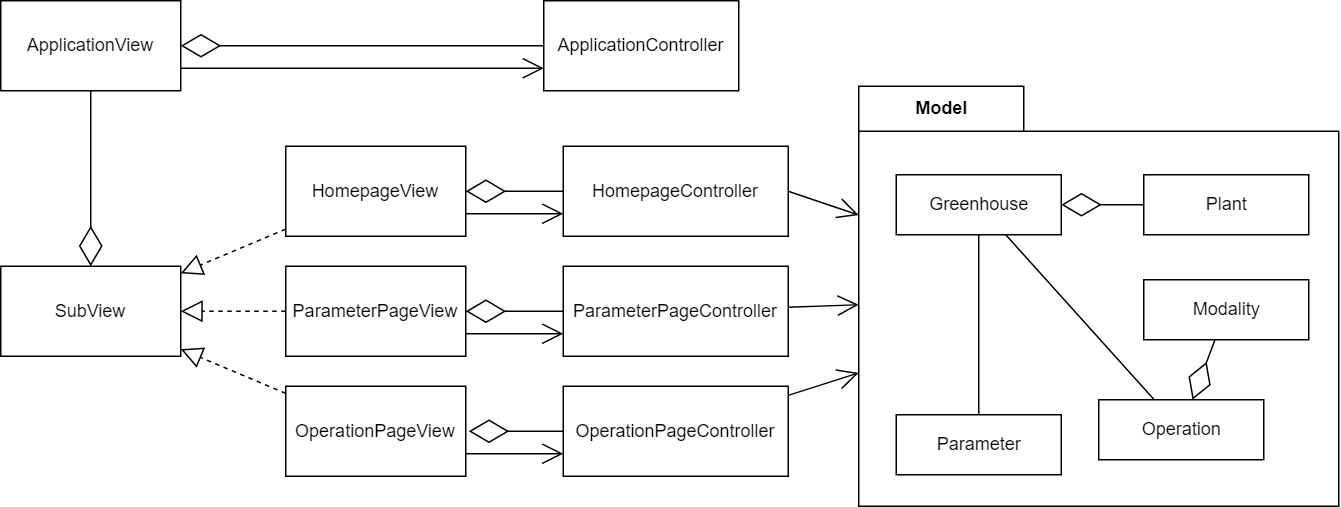
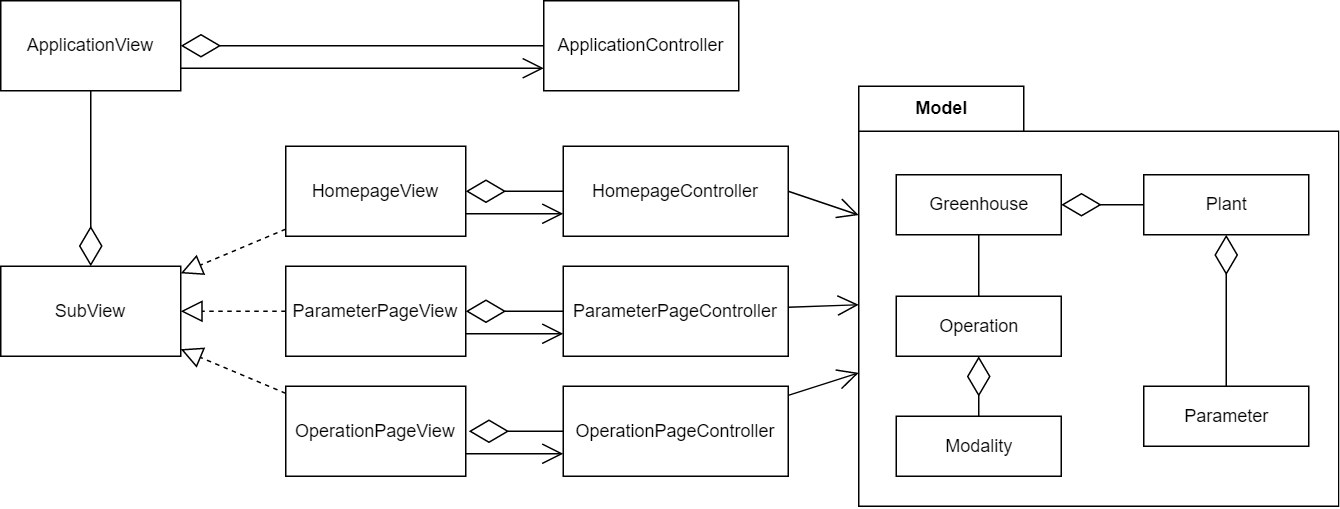
chore: fix typo and correct report

diff --git a/docs/devOps/continuousIntegration.md b/docs/devOps/continuousIntegration.md
@@ -8,17 +8,19 @@ nav_order: 2
 
 La *Continuous Integration* è una pratica importante nello sviluppo del software che consiste nel compilare, testare e distribuire frequentemente il codice sorgente in modo da garantire che le modifiche non introducano errori nel software esistente.
 
-Come detto nei capitoli precedenti, il codice del sistema è organizzato in più repository, per cui è stato realizzato un processo di automazione per ogni repository tramite l'utilizzo delle **GitHub Actions**. Di seguito, verranno descritte le configurazioni di *continuous integration* eseguite per ogni progetto.
+Come detto nei capitoli precedenti, il codice del sistema è organizzato in più repository, per cui è stato realizzato un processo di automazione per ogni repository tramite l'utilizzo delle **GitHub Actions**. 
+
+Di seguito, verranno descritte le configurazioni di *Cotinuous Integration* eseguite per ogni progetto.
 
 ## Sistema di automazione
 
 Il Sistema di automazione è composto da due sotto-progetti: uno per la scheda di **Arduino** e uno per la scheda **NodeMCU Esp8266**. Il *workflow* realizzato si occupa quindi di compilare i due progetti sulla rispettiva scheda. 
 
-Il *workflow* è impostato per eseguirsi ogni volta che viene effettuato una *push* al repository e include tre *jobs* principali: `compile-sketch`, `find-tag` e `deploy`.
+Il *workflow* è impostato per eseguirsi ogni volta che viene effettuato una *push* al repository e include tre *jobs* principali (<a href="#fig1">figura 1</a>): `compile-sketch`, `find-tag` e `deploy`.
 
-Il primo *job*, `compile-sketch`, si occupa di compilare i due *sketch* `ArduinoProject` e `EspProject` nelle rispettive schede. Per fare questo, utilizza l'*action* [arduino/compile-sketches@v1](https://github.com/arduino/compile-sketches#readme) per la compilazione del progetto.
+Il primo *job*, `compile-sketch`, si occupa di compilare i due *sketch* `ArduinoProject` e `EspProject` per le rispettive schede. Nel fare questo , utilizza l'*action* [arduino/compile-sketches@v1](https://github.com/arduino/compile-sketches#readme) per la compilazione del progetto.
 
-Il secondo *job*, `find-tag`, verrà eseguito solo se il primo *job* è stato eseguito con successo e se la modifica è stata effettuata sul branch *master*. Questo *job* si occupa di verificare se nel messaggio di commit è presente uno speciale segnalatore `-TAG`. Nel caso sia presente vuol dire che è stato specificato un tag manualmente, ciò può avvenire qualora si voglia far avanzare la versione *Major* o *Minor* avendo fatto cambiamenti significativi. Qualora non venisse specificato un tag, viene generato in automatico un nuovo tag incrementando l'ultimo numero (*bugfix*) del tag esistente.
+Il secondo *job*, `find-tag`, verrà eseguito solo se il primo *job* ha dato esito positivo e se la modifica è stata effettuata sul branch *master*. Questo *job* si occupa di verificare se nel messaggio di commit è presente uno speciale segnalatore `-TAG`. Nel caso sia presente, vuol dire che è stato specificato un tag manualmente, ciò può avvenire qualora si voglia far avanzare la versione *Major* o *Minor* del software avendo fatto cambiamenti significativi. Qualora non venisse specificato un tag, viene generato in automatico un nuovo tag incrementando l'ultimo numero (*bugfix*) del tag esistente.
 
 Il terzo *job*, `deploy`, verrà attivato solamente se è stato generato correttamente il tag nel *job* precedente. Questo *job* crea una nuova *release* sul repository di GitHub e la pubblica utilizzando l'*action* [actions/create-release@v1](https://github.com/actions/create-release).
 
@@ -29,13 +31,13 @@ Il terzo *job*, `deploy`, verrà attivato solamente se è stato generato corrett
 
 ## Server
 
-Il *workflow* realizzato per il Server è composto da tre *job* principali: `build`, `release` e `success`.
+Il *workflow* realizzato per il Server è composto da tre *job* principali (<a href="#fig2">figura 2</a>): `build`, `release` e `success`.
 
 Il primo *job*, `build`, è responsabile di compilare e testare il codice su tre sistemi operativi diversi: *Ubuntu*, *macOS* e *Windows*. Durante questa fase viene configurato il database MongoDB utilizzando l'*action* [ankane/setup-mongodb@v1](https://github.com/ankane/setup-mongodb) e caricato il database iniziale per poter effettuare i test. Il codice viene compilato e testato con Gradle e, se tutti i test hanno esito positivo, la fase di `build` viene considerata completata con successo. 
 
 Il secondo *job*, `release`, è responsabile della distribuzione del codice compilato e testato. Durante questa fase, il codice viene scaricato, viene configurato Node.js e viene eseguito un comando di rilascio utilizzando la libreria `semantic-release`, che verrà spiegato più in dettaglio nella sezione successiva sul [Version control](/Report/docs/devOps/versionControl.html).
 
-Il terzo *job*, `success`, viene eseguita solo se le fasi di `build` ha avuto esito positivo. Durante questa fase, viene eseguito un passaggio che verifica che non vi siano stati errori durante le fasi precedenti. Se tutti i passaggi hanno esito positivo, il *workflow* viene considerato completato con successo.
+Il terzo *job*, `success`, viene eseguita solo se le fasi di `build` hanno avuto esito positivo. Durante questa fase, viene eseguito un passaggio che verifica che non vi siano stati errori durante le fasi precedenti. Se tutti i passaggi hanno esito positivo, il *workflow* viene considerato completato con successo.
 
 <div align="center">
 <img src="img/pipeline_server.png" alt="pipeline server" id="fig2">
@@ -44,13 +46,13 @@ Il terzo *job*, `success`, viene eseguita solo se le fasi di `build` ha avuto es
 
 ## Client Desktop
 
-Il *workflow* realizzato per il Client Desktop risulta molto simile a quella del Server, l'unica cosa che cambia è che non ha bisogno di impostare il database MongoDB.
+Il *workflow* realizzato per il Client Desktop risulta molto simile a quella del Server, l'unica cosa che cambia è che non vi è la necessità di impostare il database MongoDB.
 
-Anche in questo caso il *workflow* è eseguito ogni volta che viene effettuato una *push*.
+Anche in questo caso il *workflow* è eseguito ogni volta che viene effettuata una *push*.
 
-Il workflow è diviso in tre *jobs* principali: `build`, `release` e `success`. Il *job* `build` consiste nel compilare il codice ed eseguire i test sui tre sistemi operativi: *Linux*, *macOS* e *Windows*.
+Il workflow è diviso in tre *jobs* principali (<a href="#fig3">figura 3</a>): `build`, `release` e `success`. Il *job* `build` si occupa di compilare il codice ed eseguire i test sui tre sistemi operativi: *Linux*, *macOS* e *Windows*.
 
-Successivamente c'è la fase di `release` per effettuare il rilascio del codice in automatico.
+Successivamente vi è la fase di `release` per effettuare il rilascio del codice in automatico.
 
 Infine, la fase `success` verifica se ci sono stati errori durante l'esecuzione dei *jobs* precedenti.
 
@@ -64,15 +66,15 @@ Infine, la fase `success` verifica se ci sono stati errori durante l'esecuzione 
 
 Il Client Mobile, come spiegato precedentemente, è un'applicazione sviluppata in Android, per cui nel suo *workflow* avrà bisogno di impostare l'emulatore **Android**.
 
-Il *workflow* consiste in quattro *jobs* principali: `build`, `instrumentation-test`, `release` e `success`.
+Il *workflow* consiste in quattro *jobs* principali (<a href="#fig4">figura 4</a>): `build`, `instrumentation-test`, `release` e `success`.
 
-Il primo *job*, `build`, esegue il processo di compilazione dell'applicazione mobile per verificare che il codice sia corretto. Viene eseguito su tre sistemi operativi diversi (*Ubuntu*, *macOS*, *Windows*) utilizzando *JDK 11*. Una volta verificato la `build`, vengono eseguite gli *unit-test* implementati con JUnit. 
+Il primo *job*, `build`, esegue il processo di compilazione dell'applicazione mobile per verificare che il codice sia corretto. Viene eseguito su tre sistemi operativi diversi (*Ubuntu*, *macOS*, *Windows*) utilizzando *JDK 11*. Una volta verificata la `build`, vengono eseguite gli *unit-test* implementati con JUnit. 
 
-Il secondo *job*, `instrumentation-test`, si occupa di eseguire i test dell'applicazione su un emulatore Android utilizzando l'*action* [reactivecircus/android-emulator-runner@v2](https://github.com/ReactiveCircus/android-emulator-runner). È stata creata una matrice per testare l'applicazione con tre diverse API-level di Android: (26, 27, 28, 29).
+Il secondo *job*, `instrumentation-test`, si occupa di eseguire i test dell'applicazione su un emulatore Android utilizzando l'*action* [reactivecircus/android-emulator-runner@v2](https://github.com/ReactiveCircus/android-emulator-runner). È stata creata una matrice per testare l'applicazione con tre diverse API-level di Android: (26, 27, 28 e 29).
 
 Il terzo *job*, `release`, esegue il processo di rilascio dell'applicazione mobile su GitHub utilizzando la libreria `semantic-release`.
 
-Il quarto *job*, `success`, verifica che non ci siano stati errori durante le fasi precedenti (`build`, `instrumentation-test`).
+Il quarto *job*, `success`, verifica che non ci siano stati errori durante le fasi precedenti (`build` ed `instrumentation-test`).
 
 <div align="center">
 <img src="img/pipeline_mobile.png" alt="pipeline mobile" id="fig4">

diff --git a/docs/implementationDetails/testing.md b/docs/implementationDetails/testing.md
@@ -11,17 +11,17 @@ Per verificare il corretto comportamento del sistema e l’efficacia del prodott
 
 ## Testing del sistema di automazione
 
-Per verificare il funzionamento del sistema di automazione sono stati eseguiti test manuali sull'hardware `Arduino` ed `NodeMCU ESP8266`. Inizialmente, sono stati effettuati test sui singoli sensori e attuatori del sistema per verificarne il comportamento e successivamente, i diversi programmi realizzati, sono stati integrati e testati per verificare il corretto funzionamento del sistema complessivo.
+Per verificare il funzionamento del sistema di automazione sono stati eseguiti test manuali sull'hardware Arduino e NodeMCU ESP8266. Inizialmente, sono stati effettuati test sui singoli sensori e attuatori del sistema per verificarne il comportamento e successivamente, i diversi programmi realizzati, sono stati integrati e testati per verificare il corretto funzionamento del sistema complessivo.
 
-Per verificare che l’ESP inviasse e ricevesse correttamente i messaggi e attivasse gli attuatori appropriati tramite Arduino, è stato utilizzato il servizio “*broker.mqtt-dashboard.com*”, che permette di testare il sistema senza dover configurare un broker `MQTT` locale. Il servizio include una dashboard per la gestione dei messaggi `MQTT` e mette a disposizione funzionalità per la pubblicazione e sottoscrizione dei messaggi, oltre a strumenti per visualizzare i messaggi inviati e ricevuti.
+Per verificare che l’ESP inviasse e ricevesse correttamente i messaggi e attivasse gli attuatori appropriati tramite Arduino, è stato utilizzato il servizio “*broker.mqtt-dashboard.com*”, che permette di testare il sistema senza dover configurare un broker MQTT locale. Il servizio include una dashboard per la gestione dei messaggi MQTT e mette a disposizione funzionalità per la pubblicazione e sottoscrizione dei messaggi, oltre a strumenti per visualizzare i messaggi inviati e ricevuti.
 
 ## Testing del Server
 
-Nel progetto del Server sono stati effettuati test automatici con `JUnit` per garantire la qualità del codice e verificare che tutte le funzionalità siano correttamente implementate. 
+Nel progetto del Server sono stati effettuati test automatici con **JUnit** per garantire la qualità del codice e verificare che tutte le funzionalità siano correttamente implementate. 
 
-Si è cercate di testare la maggior parte dei componenti in tutti i microservizi, ottenendo una coverage complessiva del 73% con un totale di 77 test come raffigurato nella <a href="#fig1">figura 1</a>.
+Inoltre, è stata utilizzata la libreria **Vert.x**, la quale include un contesto di testing per le esecuzioni asincrone. In tal modo, è possibile avviare i singoli servizi in modo asincrono e tramite l’effettuazione di richieste HTTP automatiche, è possibile verificare le risposte restituite dal servizio in modo semplice e agevole. 
 
-Inoltre, è stata utilizzata la libreria `Vert.x`, la quale include un contesto di testing per le esecuzioni asincrone. In tal modo, è possibile avviare i singoli servizi in modo asincrono e tramite l’effettuazione di richieste `HTTP` automatiche, è possibile verificare le risposte restituite dal servizio in modo semplice e agevole. 
+Si è cercato di testare la maggior parte dei componenti in tutti i microservizi, ottenendo una coverage complessiva del 73% con un totale di 77 test effettuati, come raffigurato nella <a href="#fig1">figura 1</a>.
 
 Oltre ai test automatici, sono stati eseguiti anche test manuali per verificare il corretto funzionamento del sistema nel suo insieme, includendo la comunicazione con il sistema di automazione e con i clients.
 
@@ -32,11 +32,11 @@ Oltre ai test automatici, sono stati eseguiti anche test manuali per verificare 
 
 ## Testing del Client Desktop
 
-Anche per il Client Desktop sono state realizzate dei test automatici per verificare il corretto funzionamento dell'applicazione. In particolare, per la parte di *model* e *presentazione* dei dati è stato utilizzato JUnit, mentre per la parte di *view* è stato utilizzato la libreria **TestFX** che permette di testare le interfacce.
+Anche per il Client Desktop sono state realizzate dei test automatici per verificare il corretto funzionamento dell'applicazione. In particolare, per la parte di *model* e *presentazione* dei dati è stato utilizzato **JUnit**, mentre per la parte di *view* è stata utilizzata la libreria **TestFX** che permette di testare le interfacce.
 
-Tuttavia, siccome il sistema è distribuito, non è stato possibile testare tutte le funzionalità dell'applicazione in quanto richiede che il Server sia attivo e in esecuzione. La coverage finale ottenuta è del 40% su un totale di 21 test come è possibile vedere nella <a href="#fig2">figura 2</a>.
+Tuttavia, siccome il sistema è distribuito, non è stato possibile testare tutte le funzionalità dell'applicazione in quanto richiede che il Server sia attivo e in esecuzione. La coverage finale ottenuta è del 40% su un totale di 21 test effettuati, come è possibile vedere nella <a href="#fig2">figura 2</a>.
 
-Infine sono stati effettuati dei test manuali sulle piattaforme Linux e Windows. Inizialmente, sono stati eseguiti dei test sulle singole pagine per verificarne il corretto comportamento, ossia verificare che le richieste effettuate al Server andassero a buon fine, ottenendo tutte le informazioni necessarie da mostrare all’utente e verificando che l’aggiornamento in *real-time*, relativo all’esecuzione di nuove operazioni o nuovi dati rilevati, funzionasse correttamente.
+Infine, sono stati effettuati dei test manuali sulle piattaforme Linux e Windows. Inizialmente, sono stati eseguiti dei test sulle singole pagine per verificarne il corretto comportamento, ossia verificare che le richieste effettuate al Server andassero a buon fine, ottenendo tutte le informazioni necessarie da mostrare all’utente e verificando che l’aggiornamento in *real-time*, relativo all’esecuzione di nuove operazioni o nuovi dati rilevati, funzionasse correttamente.
 
 Successivamente, si è proceduto ad integrare le diverse schermate verificando che il comportamento complessivo dell’applicazione rimanesse invariato.
 
@@ -53,7 +53,7 @@ I test sono stati realizzati sia con Client e Server presenti sullo stesso host,
 
 Anche per il Client Mobile sono stati effettuati sia dei test automatici sia test manuali per verificare il corretto funzionamento dell'applicazione. 
 
-Come nel Client Desktop, sono stati implementati dei *unit test* utilizzando JUnit per verificare le entità del *model* e gli aspetti di presentazione dei dati. Per quanto riguarda la *view*, invece, è stato utilizzato il *framework* di test **Espresso** che permette di eseguire i test direttamente sul dispositivo Android, fisico o emulato. L'applicazione viene compilata e installata nel dispositivo e viene lanciato il test, simulando le interazioni dell'utente e verificando il comportamento dell'applicazione. La coverage finale ottenuta è del 58% su un totale di 24 test come è possibile vedere nella <a href="#fig3">figura 3</a>.
+Come nel Client Desktop, sono stati implementati degli *unit test* utilizzando **JUnit** per verificare le entità del *model* e gli aspetti di presentazione dei dati. Per quanto riguarda la *view*, invece, è stato utilizzato il *framework* di test **Espresso** che permette di eseguire i test direttamente sul dispositivo Android, fisico o emulato. L'applicazione viene compilata e installata nel dispositivo e viene lanciato il test, simulando le interazioni dell'utente e verificando il comportamento dell'applicazione. La coverage finale ottenuta è del 58% su un totale di 24 test effettuati, come è possibile vedere nella <a href="#fig3">figura 3</a>.
 
 Infine, sono stati effettuati dei test manuali, sia tramite i dispositivi Android a disposizione dei componenti del gruppo sia attraverso l’emulatore messo a disposizione da Android Studio. Come indicato per il Client Desktop, anche in questo caso i test eseguiti sono stati effettuati sia con il componente Client che con il componente Server attivi, che mediante l’utilizzo di container Docker, per l’hosting del Server, al fine di simulare un ambiente distribuito.
 

diff --git a/docs/devOps/buildAutomation.md b/docs/devOps/buildAutomation.md
@@ -6,38 +6,38 @@ nav_order: 1
 ---
 # Build automation
 
-Una volta definiti i bounded context e l'architettura del progetto, si è proseguito andando a definire la struttura di progetto. È stata predisposta un'organizzazione di base ed è stata chiamata **SmartGreenhouse-22-23**. All'interno di questa sono stati predisposti quattro repository principali:
+Una volta definiti i bounded context e l'architettura del progetto, si è proseguito andando a definirene la struttura e l'organizzazione. È stata predisposta un'organizzazione di base su GitHub ed è stata chiamata **SmartGreenhouse-22-23**. All'interno di questa sono stati predisposti quattro repository principali:
 - **ArduinoSensor**, che si occupa del sotto-progetto relativo all'implementazione del sotto-dominio sistema di automazione;
 - **Server**, che si occupa della parte backend del sistema, rappresentando quindi il sotto-dominio greenhouse core;
 - **ClientDesktop**, che si occupa di implementare il client desktop, facente parte del sotto-dominio client;
 - **ClientMobile**, che si occupa di implementare il client mobile, facente parte anch'esso del sotto-dominio client.
 
-Tutti i repository, ad eccezione di **ArduinoSensor** sono stati strutturati utilizzando il build tool **Gradle**, il quale è stato pensato per funzionare principalmente su linguaggi Java like, tuttavia anche altri linguaggi sono supportati.
+Tutti i repository, ad eccezione di **ArduinoSensor**, sono stati strutturati utilizzando il build tool **Gradle**, il quale è stato pensato per funzionare principalmente su linguaggi _Java like_.
 
-Grazie a Gradle è stato possibile gestire in modo semplice ed efficace la build automation e quindi le dipendenze ed i plugin, di ogni progetto, ed eventualmente sotto-progetto, anche grazie all'utilizzo del file di configurazione ``libs.versions.toml``.
+Grazie a Gradle è stato possibile gestire in modo semplice ed efficace la _build automation_ e quindi le dipendenze ed i _plugin_, di ogni progetto, ed eventualmente sotto-progetto, anche grazie all'utilizzo del file di configurazione ``libs.versions.toml``.
 
 
 ## Struttura multi-progetto
 
-Come detto nella sezione relativa all'design, si è pensato di realizzare il sistema di backend adottando un'architettura a micro-servizi. Per riuscire a realizzare questo tipo di architettura è stato scelto di adottare la struttura multi-progetto messa a disposizione da gradle, il più possibile aderente all’analisi DDD effettuata. Pertanto all'interno del più grande progetto, e repository **Server**, sono stati definiti i seguenti sotto-progetti:
+Come detto nella sezione relativa all'design, si è pensato di realizzare il sistema di backend adottando un'architettura a micro-servizi. Per riuscire a realizzare questo tipo di architettura si è scelto di adottare la struttura multi-progetto messa a disposizione da gradle, che fosse il più possibile aderente all’analisi DDD effettuata. Pertanto all'interno del _root project_, e repository **Server**, sono stati definiti i seguenti sotto-progetti:
 
 - **brightnessService**, il quale rappresenta il micro-servizio relativo alla storicizzazione e il reperimento dei dati del sensore di luminosità; 
 - **clientCommunicationGateway**, il cui compito è quello di rappresentare il micro-servizio incaricato di gestire la comunicazione con i client;
-- **common**, rappresenta una libreria incaricata di gestire le attività legate ai parametri di una pianta;
+- **common**, rappresenta una modulo che racchiude gli elementi comuni relativi ai parametri di una pianta;
 - **greenhouseCommunicationGateway**, il cui compito è quello di rappresentare il micro-servizio incaricato di gestire la comunicazione con il sistema di automazione;
-- **greenhouseService**, il quale rappresenta il micro-servizio incaricato della storicizzazione e il reperimento delle informazioni relative alla serra, tra cui pianta coltivata al suo interno, i range ottimali per i suoi parametri vitali e la modalità attuale di gestione: manuale o automatica. Questo servizio si occupa di analizzare i diversi dati rilevati dai sensori, in modo da individuare eventuali situazioni di allarme e in tal caso stabilire l'operazione correttiva da intraprendere; 
+- **greenhouseService**, il quale rappresenta il micro-servizio incaricato della storicizzazione e il reperimento delle informazioni relative alla serra, tra cui la pianta coltivata al suo interno, i range ottimali per i suoi parametri vitali e la modalità attuale di gestione: manuale o automatica. Questo servizio si occupa, inoltre, di analizzare i diversi dati rilevati dai sensori, in modo da individuare eventuali situazioni di allarme e in tal caso stabilire l'operazione correttiva da intraprendere; 
 - **humidityService**, il quale rappresenta il micro-servizio relativo alla storicizzazione e il reperimento dei dati del sensore dell'umidità ambientale; 
-- **operationService**, , il quale rappresenta il micro-servizio relativo all'esecuzione, storicizzazione e il reperimento dei dati riguardanti le operazioni eseguite all'interno della serra; 
+- **operationService**, il quale rappresenta il micro-servizio relativo all'esecuzione, storicizzazione e il reperimento dei dati riguardanti le operazioni eseguite all'interno della serra; 
 - **soilMoistureService**, il quale rappresenta il micro-servizio relativo alla storicizzazione e il reperimento dei dati del sensore dell'umidità del suolo; 
 - **temperatureService**, il quale rappresenta il micro-servizio relativo alla storicizzazione e il reperimento dei dati del sensore della temperatura ambientale; 
 
 ## Task personalizzati
-Per ogni progetto e sottoprogetto sono stati creati dei task personalizzati, inseriti  all’interno dei relativi file ``build.gradle.kts``. Per eseguire i task basterà eseguire il seguente comando ``./gradlew nomeTask``, sostituendo **nomeTask** con appunto il nome del task presente nel progetto.
+Per ogni progetto e sottoprogetto sono stati creati dei task personalizzati, inseriti all’interno dei relativi file ``build.gradle.kts``. Per eseguire i task basterà eseguire il seguente comando ``./gradlew nomeTask``, sostituendo **nomeTask** con il nome del task presente nel progetto.
 
 In particolare per ogni progetto sono stati creati:
 
-- un task di ``test`` denominato appunto test. In questo modo a partire dalla root del progetto sarà possibile lanciare i test di ogni progetto. Aggiungendo al comando il parametro ``--parallel`` tutti i task di test dei sottoprogetti verranno lanciati in parallelo, permettendo di effettuare un test dell’intero progetto molto più velocemente.
+- un task ``test`` che a partire dalla root del progetto consentirà di lanciare i test di ogni sottoprogetto. Inoltre, aggiungendo al comando il parametro ``--parallel`` tutti i task di test dei sottoprogetti verranno lanciati in parallelo, permettendo di effettuare un test dell’intero progetto molto più velocemente.
 
-- un task per la creazione del jar, denominato ``shadowJar`` il quale permette di generare il jar per il progetto ed ogni sotto-progetto.
+- un task ``shadowJar``, il quale permette di generare il jar per il progetto ed ogni sotto-progetto.
 
-- un task per la creazione del report relativo alla coverage, denominato ``JacocoAggregatedReport`` il quale permette di generare il report della coverage per il progetto, contenente quindi anche il report di ogni sotto-progetto in esso presente.
+- un task ``Jacoco``, il quale permette di generare il report della coverage per il sottoprogetto e al fine di aggregare i diversi report, il task `JacocoAggregatedReport`.

diff --git a/docs/implementationDetails/backend.md b/docs/implementationDetails/backend.md
@@ -73,9 +73,9 @@ Nel caso del servizio `GreenhouseCommunication`, infatti, le operazioni da esegu
 
 Al fine di rendere il deployment del sistema di backend più semplice, si è deciso di utilizzare **[Docker](https://www.docker.com/)** per poter caricare ed eseguire i diversi micro-servizi. 
 
-In particolare, si è deciso di inserire ogni micro-servizio all'interno di un apposito container Docker. Un container è una __lightweight Virtual Machine__, che è in grado di contenere un'applicazione e il suo ambiente di esecuzione, vengono considerati __lightweight__, in quanto contengono solo lo stretto necessario per poter eseguire l'applicazione e utilizzano le risorse dell'host sul quale vengono istanziati, consentendoci di avere un ambiente di esecuzione isolato per ogni servizio. 
+In particolare, si è deciso di inserire ogni micro-servizio all'interno di un apposito container Docker. Un container è una _lightweight Virtual Machine_, che è in grado di contenere un'applicazione e il suo ambiente di esecuzione, vengono considerati _lightweight_, in quanto contengono solo lo stretto necessario per poter eseguire l'applicazione e utilizzano le risorse dell'host sul quale vengono istanziati, consentendoci di avere un ambiente di esecuzione isolato per ogni servizio. 
 
-Nel nostro caso il container di ogni micro-servizio, come si può vedere nel <a href="#lst3">listato 3</a>, contiene al suo interno il JDK 11, necessario per l'esecuzione del jar e il .jar contenente il codice, compreso di dipendenze, del servizio che rappresenta. Nell'esempio, il servizio è quello relativo alla gestione del parametro della luminosità, per cui una volta nominato l'immagine ``brightness_service``, in modo da poterla poi identificare, viene caricato al suo interno il .jar del servizio e non appena questo accade viene lanciata la sua esecuzione. 
+Nel nostro caso il container di ogni micro-servizio, come si può vedere nel <a href="#lst3">listato 3</a>, contiene al suo interno il JDK 11, necessario per l'esecuzione del jar e il .jar contenente il codice, compreso di dipendenze, del servizio che rappresenta. Nell'esempio, il servizio è quello relativo alla gestione del parametro della luminosità, per cui una volta nominato l'immagine ``brightness_service``, in modo da poterla poi identificare, viene caricato al suo interno il .jar del servizio e, non appena questo accade, viene lanciata la sua esecuzione. 
 
 Eventualmente, se necessario per il corretto funzionamento del servizio, un container può esporre alcune porte, ad esempio, aggiungendo al ``Dockerfile`` il comando ``EXPOSE 1234``, il container sarà in grado di esporre all'esterno la porta 1234.
 
@@ -89,7 +89,7 @@ CMD java -jar brightnessService-0.1.0-all.jar
 
 I diversi container sono in grado di comunicare tra loro tramite una rete costruita ad-hoc; per semplicità di gestione la costruzione dei container e della rete è stata realizzata tramite la scrittura di un apposito file ``docker-compose.yaml``. 
 
-All'interno del file, come si può vedere nell'estratto del  <a href="#lst4">listato 4</a>, ogni servizio viene identificato dallo stesso nome usato per la creazione della propria immagine, poi, viene definito attraverso ``container_name`` il nome da utilizzare per effettuare le richieste HTTP al container; dopodiché si passa alla creazione della rete mediante la specificazione delle dipendenze tra container, ad esempio dal listato è possibile notare come i servi che necessitano di un database dipendano dal servizio mongodb. 
+All'interno del file, come si può vedere nell'estratto del  <a href="#lst4">listato 4</a>, ogni servizio viene identificato dallo stesso nome usato per la creazione della propria immagine, poi, viene definito attraverso ``container_name`` il nome da utilizzare per effettuare le richieste HTTP al container; dopodiché si passa alla creazione della rete mediante la specificazione delle dipendenze tra container, ad esempio dal listato è possibile notare come i servizi che necessitano di un database dipendano dal servizio `mongodb`. 
 
 Una volta specificate le dipendenze tra i diversi servizi, si procede con la creazione vera e propria del servizio, specificando quale sotto-progetto dovrà essere utilizzato come contesto di esecuzione e il `Dockerfile` da utilizzare per la creazione della rispettiva immagine. Infine, vengono mappate le porte del container su quelle dell'host, in modo tale da poter effettuare le richieste al servizio.
 

diff --git a/docs/design/detailedDesign/clientMobile.md b/docs/design/detailedDesign/clientMobile.md
@@ -42,14 +42,16 @@ Riassumendo, la struttura utilizzata nell’applicazione è raffigurato nella <a
 
 L’applicazione Mobile è composta da più pagine, e quindi ha più interfacce, ognuno di queste è rappresentata da un **layout** definito con il linguaggio `XML` e una classe `UI Controller` associata rappresentata dalle Activity o dai Fragment. Un’Activity è l’*entry point* per l’interazione tra l’applicazione e l’utente, è il componente associato all’interfaccia che consente di gestire gli elementi della pagina. Un’Activity può contenere più interfacce, detti Fragment. Gli Activity e i Fragment hanno un proprio ciclo di vita, ed è possibile sapere in che fase di questo ciclo di vita ci troviamo.
 
-I **ViewModel** gestiscono i dati relativi all’interfaccia utente in modo consapevole rispetto al ciclo di vita. I ViewModel contengono più **LiveData**, ovvero classi contenitori di dati che possono essere osservate quando i dati vengono cambiati. In questo modo i componenti dell’interfaccia utente, vengono notificati se i dati sono cambiati e possono aggiornarsi di conseguenza.
+I **ViewModel** gestiscono i dati relativi all’interfaccia utente in modo consapevole rispetto al ciclo di vita. I ViewModel contengono più **LiveData**, ovvero classi contenitori di dati che possono essere osservate quando i dati vengono cambiati. In questo modo, i componenti dell’interfaccia utente, vengono notificati se i dati sono cambiati e possono aggiornarsi di conseguenza.
 
-Successivamente abbiamo i **Repository**, dei componenti progettati seguendo il pattern, chiamato appunto, *Repository*. È un pattern che ci permette di astrarre l’accesso ai dati, nascondendo la loro effettiva implementazione e tecnologia di persistenza dal modello dell'applicazione. Questo significa che i `ViewModel` possono utilizzare i `Repository` per accedere ai dati di cui hanno bisogno, senza dover conoscere la logica e il modo su come vengono recuperati i dati. Il `Repository`, come detto precedente, si occupa di recuperare i dati dalle varie sorgenti e nel nostro caso, sono richiesti da remoto, ovvero dalla rete tramite le rotte esposte dal Server. Ogni sorgente di dati è rappresentato con una entità **Remote Data Source**.
+Successivamente, abbiamo i **Repository**, dei componenti progettati seguendo il pattern *Repository*. È un pattern che ci permette di astrarre l’accesso ai dati, nascondendo la loro effettiva implementazione e tecnologia di persistenza dal modello dell'applicazione. Questo significa che i `ViewModel` possono utilizzare i `Repository` per accedere ai dati di cui hanno bisogno, senza dover conoscere la logica e il modo in cui vengono recuperati i dati. 
 
-La nostra applicazione è costituita da un'`Activity` (`MainActivity`) e due `Fragment` (`HomePageFragment` e `ManualControlFragment`), per capire meglio i concetti spiegati precedentemente e l’architettura generale si può osservare il seguente diagramma delle classi, il quale mostra gli elementi necessari per la gestione della homepage:
+Il `Repository`, come detto precedente, si occupa di recuperare i dati dalle varie sorgenti e nel nostro caso, sono richiesti da remoto, ovvero dalla rete tramite le rotte esposte dal Server. Ogni sorgente di dati è rappresentato con una entità **Remote Data Source**.
+
+La nostra applicazione è costituita da un'`Activity` (`MainActivity`) e due `Fragment` (`HomePageFragment` e `ManualControlFragment`), per capire meglio i concetti spiegati precedentemente e l’architettura generale si può osservare il seguente diagramma delle classi ( <a href="#fig3">figura 3</a>), il quale mostra gli elementi necessari per la gestione della homepage:
 
 <div align="center">
-<img src="img/classi_mobile.png" alt="diagramma delle classi" id="fig3">
+<img src="img/classi_mobile.png" alt="diagramma delle classi" id="fig3" width="70%">
  <p align="center">[Fig 3] Diagramma delle classi: Homepage applicazione Mobile</p>
 </div>
 

diff --git a/docs/devOps/versionControl.md b/docs/devOps/versionControl.md
@@ -6,9 +6,9 @@ nav_order: 3
 ---
 # Version control
 
-Per software versioning si intende il rpocesso si assegnare un identificatore univoco a uno stato del software. L'identificativo che viene associato è di norma una sequanza alfanumerica di caratteri separati da punti, _slashes_ o _dashes_.
+Per software versioning si intende il processo di assegnare un identificatore univoco a uno stato del software. L'identificativo che viene associato è di norma una sequenza alfanumerica di caratteri separati da punti, _slashes_ o _dashes_.
 
-Nel nostro caso per poter distinguere le diverse versioni del software, si è deciso di seguire le linee guida proposte dl [Semantic Versioning](https://semver.org/). La versione del software, di conseguenza, è rappresentata da tre numeri separati da un punto: MAJOR.MINOR.PATCH.
+Nel nostro caso, per poter distinguere le diverse versioni del software, si è deciso di seguire le linee guida proposte dal [Semantic Versioning](https://semver.org/). La versione del software, di conseguenza, è rappresentata da tre numeri separati da un punto: MAJOR.MINOR.PATCH.
 
 L'incremento di uno di questi tre numeri viene eseguito attraverso queste regole:
 
@@ -16,7 +16,7 @@ L'incremento di uno di questi tre numeri viene eseguito attraverso queste regole
 - **MINOR**, quando vengono aggiunte delle funzionalità che sono retrocompatibili con versioni precedenti del sistema;
 - **PATCH**, quando vengono aggiornati dei bug mantenendo una retrocompatibilità.
 
-Il team, ha inoltre deciso, di promuovere il processo di semantic versioning in modo automatico, sfruttando per questo le action di GitHub. In particolare, i quattro diversi progetti principali che sono stati realizzati: `ArduinoSensor`, `Server`, `ClientDesktop` e `ClientMobile` presentano tutti un branch principale `master` e uno di sviluppo `develop`, nel rispetto dell'ottica git flow, ed è stato possibile impostare le GitHub actions in modo tale che ogni qual volta venisse effettuata l'operazione di `push` sul branch `master`, una nuova versione del software venisse rilasciata. La determinazione della versione corretta da associare allo stato del software viene fatta sula base dei commit salvati, questi infatti, sono stati scritti seguendo l'approccio [Conventional Commit](https://www.conventionalcommits.org/en/v1.0.0/), un commit viene pertanto scritto seguendo il seguente formato:
+Il team, ha inoltre deciso, di promuovere il processo di semantic versioning in modo automatico, sfruttando per questo le action di GitHub. In particolare, i quattro diversi progetti principali che sono stati realizzati: `ArduinoSensor`, `Server`, `ClientDesktop` e `ClientMobile`, presentano tutti un branch principale `master` e uno di sviluppo `develop`, nel rispetto dell'ottica git flow, ed è stato possibile impostare le GitHub actions in modo tale che ogni qual volta venisse effettuata l'operazione di `push` sul branch `master`, una nuova versione del software venisse rilasciata. La determinazione della versione corretta da associare allo stato del software viene fatta sula base dei commit salvati, questi infatti, sono stati scritti seguendo l'approccio [Conventional Commit](https://www.conventionalcommits.org/en/v1.0.0/). Un commit viene pertanto scritto seguendo il seguente formato:
 
 ```bash
 <type>[optional scope]: <description>
@@ -24,8 +24,7 @@ Il team, ha inoltre deciso, di promuovere il processo di semantic versioning in 
 
 I tipi di commit che sono stati adottati, nel nostro caso, sono i seguenti: 
 
-- **build**, per cambiamenti che riguardano il build system, oppure
-dipendenze esterne;
+- **build**, per cambiamenti che riguardano il build system, oppure dipendenze esterne;
 - **chore**, in caso di cambiamenti che non riguardano il codice di produzione;
 - **ci**, per cambiamenti che riguardano la continuous integration;
 - **docs**, per cambiamenti che riguardano solo la documentazione;

diff --git a/docs/conclusion/index.md b/docs/conclusion/index.md
@@ -6,11 +6,11 @@ nav_order: 10
 
 # Conclusioni
 
-Si voleva realizzare un'applicazione che consentisse la gestione e il monitoraggio di una serra intelligente, al cui interno fosse coltivata una specifica tipologia di piantagione. Si è concordato con l'utente committente di realizzare due tipologie di applicazioni: un'applicazione Desktop per il monitoraggio della gestione della serra e la verifica dello stato di salute della pianta e un'Applicazione Mobile, che potesse essere utilizzata dall'operatore sul campo e che li consentisse di poter prendere il controllo manuale della gestione della serra in caso di necessità.
+Si voleva realizzare un'applicazione che consentisse la gestione e il monitoraggio di una serra intelligente, al cui interno fosse coltivata una specifica tipologia di piantagione. Si è concordato con l'utente committente di realizzare due tipologie di applicazioni: un'applicazione Desktop per il monitoraggio della gestione della serra e la verifica dello stato di salute della pianta e un'Applicazione Mobile, che potesse essere utilizzata dall'operatore sul campo e che gli consentisse di poter prendere il controllo manuale della gestione della serra in caso di necessità.
 
 Per realizzare questo obiettivo, si è partiti con un'analisi più approfondita dei requisiti del sistema, estraendo la conoscenza del dominio e i termini dell’ubiquitous language da adottare, grazie al processo di knowledge crunching; individuando i requisiti: di business, utente, funzionali, non funzionali e implementativi che il progetto richiedeva. Successivamente, sono stati individuati i sottodomini del sistema: sistema di automazione serra, greenhouse core e client e per ognuno di questi sono stati identificati più bounded context.
 
-Dopodiché si è passati alla progettazione e implementazione delle diverse componenti, ed infine, giunti al termine del progetto, il gruppo si ritiene soddisfatto in quanto ha risposto in maniera completa ai requisiti prefissati.
+Dopodiché si è passati alla progettazione e implementazione delle diverse componenti. Giunti al termine del progetto, il gruppo si ritiene soddisfatto in quanto ha risposto in maniera completa ai requisiti prefissati.
 
 L’adozione della metodologia di sviluppo SCRUM-inspired ha agevolato la realizzazione del progetto e l’adozione di tecnologie per la Continuous Integration ha permesso di verificare su diversi sistemi operativi, ogni qual volta venisse apportata una modifica al codice di produzione, che non fossero state introdotte regressioni nei test.
 
@@ -22,7 +22,7 @@ Riteniamo che la realizzazione di questo progetto abbia accresciuto le nostre co
 - necessitava di una programmazione complessa, ma guidata da un processo di sviluppo più sofisticato rispetto a quelli adottati nel percorso triennale;
 - ha migliorato le capacità di collaborazione e di coordinazione all'interno del team.
 
-**Sviluppi futuri**
+## Sviluppi futuri
 Possibili funzionalità aggiuntive che possono essere realizzate in futuro, in aggiunta a quelle già presenti, grazie alla modularità del sistema, possono essere le seguenti:
 
 - aggiunta di un sistema di notifica capace di informare l'operatore in caso di situazioni particolarmente critiche di allarme;

diff --git a/docs/design/detailedDesign/clientDesktop.md b/docs/design/detailedDesign/clientDesktop.md
@@ -15,7 +15,7 @@ Nello specifico, il funzionamento del pattern MVC è il seguente:
 -   il **Controller** riceve i comandi dell’utente attraverso la View e reagisce modificando lo stato dei componenti View e Model;
 -   la **View** visualizza i dati contenuti nel Model e si occupa dell’interazione con gli utenti, notificando il Controller.
 
-Il Client Desktop si compone di tre schermate: la homepage, il dettaglio di un parametro e il riepilogo delle operazioni svolte. Come viene mostrato nella <a href="#fig1"> figura 1</a>, l’architettura è composta da una View e un Controller principale: `ApplicationView` e `ApplicationController` che gestiscono le componenti comuni alle diverse pagine dell’applicazione. Ogni pagina dell’applicazione viene vista come una `SubView`, per cui le classi dei componenti `HomepageView`, `ParameterPageView` e `OperationPageView` implementano l’interfaccia `SubView`. Ognuna di questi componenti ha un proprio Controller associato che gestisce la logica specifica di ogni schermata. I vari Controller utilizzano i dati del Model per tenere
+Il Client Desktop si compone di tre schermate: la homepage, il dettaglio di un parametro e il riepilogo delle operazioni svolte. Come viene mostrato nella <a href="#fig1"> figura 1</a>, l’architettura è composta da una View e un Controller principale: `ApplicationView` e `ApplicationController` che gestiscono le componenti comuni alle diverse pagine dell’applicazione. Ogni pagina dell’applicazione viene vista come una `SubView`, per cui le classi dei componenti `HomepageView`, `ParameterPageView` e `OperationPageView` implementano l’interfaccia `SubView`. Ognuno di questi componenti ha un proprio Controller associato che gestisce la logica specifica di ogni schermata. I vari Controller utilizzano i dati del Model per tenere
 aggiornata la View.
 
 <div align="center">
@@ -23,9 +23,13 @@ aggiornata la View.
  <p align="center">[Fig 1] Architettura dell’applicazione Desktop</p>
 </div>
 
-Il Model fornisce una rappresentazione dei dati della serra, rendendo più facile l’accesso e la gestione di questi dati da parte dei Controller del sistema. In particolare, è costituito dai seguenti componenti:
+## Tactical design
+
+Il Model fornisce una rappresentazione dei dati della serra, rendendo più facile l’accesso e la gestione di questi dati da parte dei Controller del sistema. In particolare, è costituito dalle seguenti entità del dominio:
 
 - `Greenhouse`, che rappresenta la serra che si vuole gestire ed è composta dalla pianta che è associata alla serra;
 - `Plant`, che rappresenta la pianta coltivata della serra, contiene le informazioni della pianta e i suoi valori ottimali per la crescita;
+E dai seguenti value objects:
+- `PlantParameter`, che rappresenta uno dei parametri monitorati per la pianta;
 - `Parameter`, che rappresenta i parametri registrati nella serra e ne tiene traccia per lo storico;
 - `Operation`, che rappresenta le operazioni eseguite sulla serra, sia con la modalità automatica sia manuale.

diff --git a/docs/devOps/index.md b/docs/devOps/index.md
@@ -4,4 +4,4 @@ has_children: true
 nav_order: 7
 ---
 # Pratiche DevOps
-In questo capitolo verranno illustrati gli aspetti legati alla metodologia DevOps utilizzata, in particolare come sono avvenute le operazioni di Build Automation, come è stata gestita la CI, come è stato effettuato il versioning del software e come è stato utilizzato git.
+In questo capitolo verranno illustrati gli aspetti legati alla metodologia DevOps utilizzata, in particolare: come sono state gestite le operazioni di Build Automation, la CI, effettuato il versioning del software e come è stato utilizzato Git.
